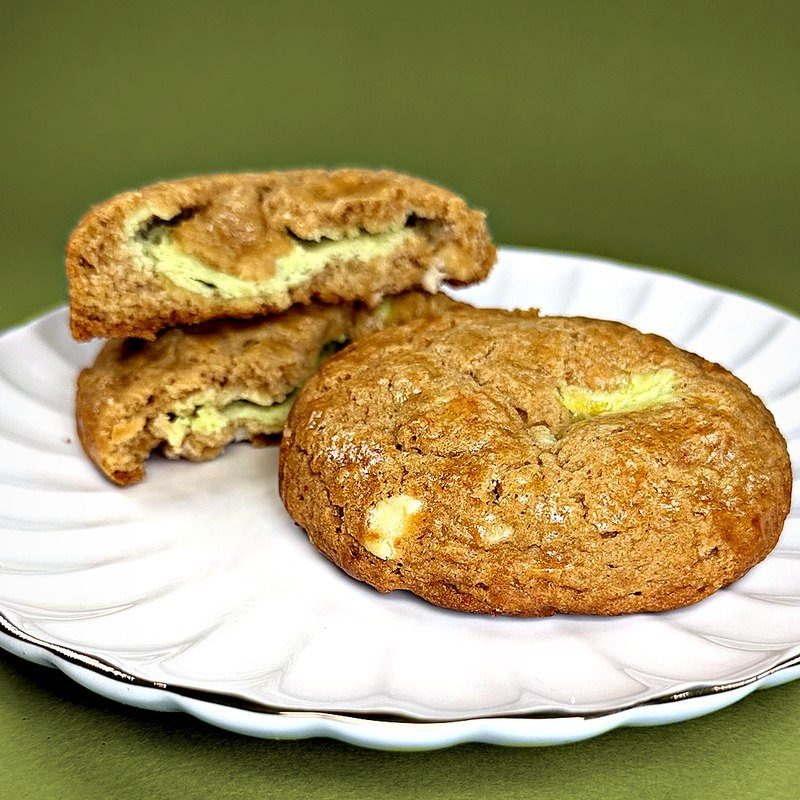
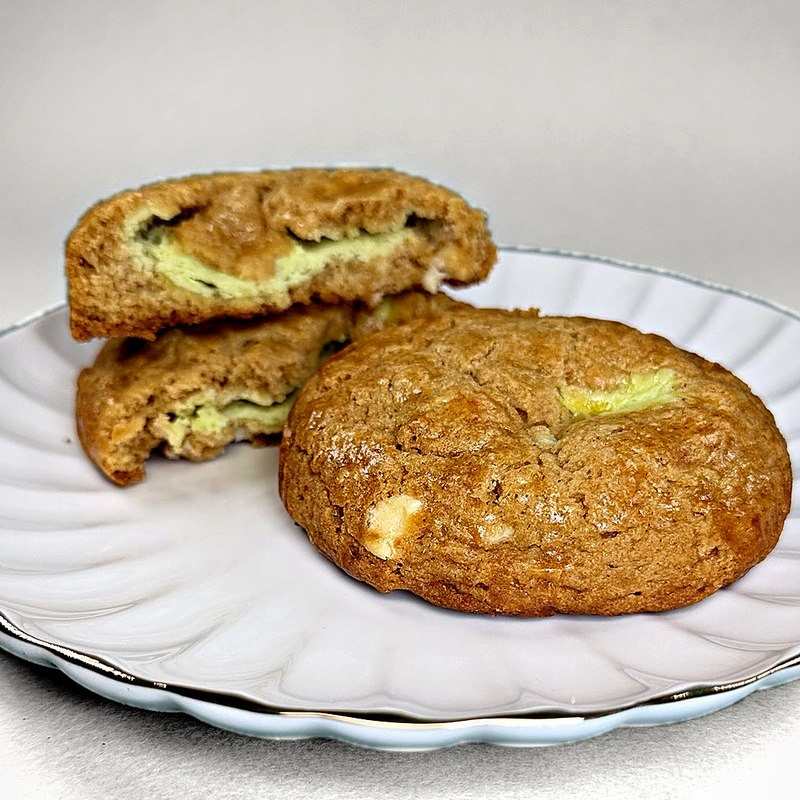
Mary Cookies: blanco y negro completo; fotos reales con fondo gris claro, sin verde olivo
Claude-Session: https://claude.ai/code/session_015dL2sNW5R9ZGNvpo3DgFWQ

diff --git a/marycookies/bn/index.html b/marycookies/bn/index.html
@@ -372,24 +372,37 @@ body:not(.holiday) .season-only{display:none!important}
 }
 </style>
 <style>
-/* B&N + color accents: neutral black/white layout; photos, buttons and tags keep their color */
-:root{--cream:#FFFFFF;--paper:#F7F7F6;--mist:#F0F0EE;--choco:#111111;--soft:#5C5C5C;--line:#E4E4E2;--olive-ink:#111111}
+/* Black & white: neutral layout, color only in the cookies */
+:root{--cream:#FFFFFF;--paper:#F7F7F6;--mist:#F0F0EE;--choco:#111111;--soft:#5C5C5C;--line:#E4E4E2;--olive:#111111;--olive-deep:#111111;--olive-ink:#111111;--caramel:#111111;--caramel-deep:#000;--holly:#111111}
 header.nav{background:rgba(255,255,255,.94)}
 .hero{background:linear-gradient(180deg,#fff 55%,#F0F0EE)}
-.announce{background:#111}.announce a{color:#C9D27A}
-.marquee{background:#111}.marquee-track span::after{background:var(--olive)}
-.dark{background:#111}.dark .eyebrow{color:#C9D27A}
-footer{background:#111}.foot h4{color:#C9D27A}
-.eyebrow{color:var(--olive)}
+.announce,.marquee,.dark,footer,.boxcard,.chat-top,.chat-fab,.story .logo-c{background:#111}
+.slots{background:#000}.slot.pie{box-shadow:inset 0 0 0 2px rgba(255,255,255,.55)}
+.announce a,.dark .eyebrow,.foot h4,.surprise{color:#fff}
+.marquee-track span::after{background:#fff}
+.eyebrow{color:#111}
+.hero h1 em{color:#555}
 .hero-photo .frame,.gift-photo{border-color:#111}
 .brand{color:#111}.foot .brand{color:#fff}
-.chip[aria-pressed="true"]{background:var(--olive-deep)}
-.boxcard{background:#111}.slots{background:#000}
+.btn-primary{background:#111;color:#fff}.btn-primary:hover{background:#333}
 .btn-ghost{color:#111;box-shadow:inset 0 0 0 2px #111}.btn-ghost:hover{background:#111;color:#fff}
 .boxcard .btn-ghost{color:#fff;box-shadow:inset 0 0 0 2px rgba(255,255,255,.5)}
+.btn-cream{background:#fff;color:#111}.btn-gold{background:#111;color:#fff}
+.box-pill .count{background:#fff;color:#111}
+.progress i{background:#fff}
+.chip[aria-pressed="true"]{background:#111}
+.tag,.tag.cold,.tag.new{background:rgba(17,17,17,.88)}
+.tagline{background:#111}
+.chat-fab .ping{background:#fff;box-shadow:0 0 0 3px #111}
+.chat-fab .face,.chat-top .face{border-color:#fff}
+.msg.me{background:#111}.msg .acts button{background:#111}
+.chat form button,.plus,.step .n{background:#111}.plus:hover{background:#333}
+.piec .plus{background:#fff;color:#111}
+.note-cold b{color:#111}
 .card,.step,.ws-card,.tile,.icon,.acc details{box-shadow:0 1px 0 #E4E4E2,0 14px 30px -24px rgba(0,0,0,.45)}
-.chat-top{background:#111}.chat-fab{background:#111}
-.story .logo-c{background:#111}
+.acc summary::after{color:#111}
+input[type=range]{accent-color:#111}
+.cold-note{background:rgba(255,255,255,.12)}
 </style>
 </head>
 <body>
@@ -471,7 +484,6 @@ footer{background:#111}.foot h4{color:#C9D27A}
         <div class="filters" id="filters" role="group" aria-label="Filter"></div>
         <div class="styles" role="group" aria-label="Look"><span data-i18n="mn.look">Look</span>
           <button class="sw real" type="button" data-style="real" aria-label="Kitchen" aria-pressed="true"></button>
-          <button class="sw olive" type="button" data-style="olive" aria-label="Olive" aria-pressed="false"></button>
           <button class="sw dark" type="button" data-style="dark" aria-label="Dark" aria-pressed="false"></button>
           <button class="sw marble" type="button" data-style="marble" aria-label="Marble" aria-pressed="false"></button>
           <button class="sw rustic" type="button" data-style="rustic" aria-label="Rustic" aria-pressed="false"></button>
@@ -508,7 +520,7 @@ footer{background:#111}.foot h4{color:#C9D27A}
     <div class="wrap">
       <div class="head reveal"><div><p class="eyebrow" data-i18n="ws.eyebrow">Wholesale &amp; events</p><h2 data-i18n="ws.title">For your store, office or party</h2></div></div>
       <div class="ws">
-        <div class="ws-photo reveal"><img src="../img/real-assort.jpg" alt="Assorted stuffed cookies and cookie pies" data-lb width="600" height="600" loading="lazy"></div>
+        <div class="ws-photo reveal"><img src="../img/real-tower-2.jpg" alt="Four stuffed cookies stacked on a plate" data-lb width="600" height="600" loading="lazy"></div>
         <div class="ws-card">
           <div class="field"><span class="lbl-t" data-i18n="ws.who">I'm ordering for</span><div class="row" id="wsType"></div></div>
           <div class="field"><label for="dozens"><span data-i18n="ws.qty">Dozens</span>: <span id="dzOut">5</span></label><input type="range" id="dozens" min="1" max="30" value="5"></div>
@@ -648,7 +660,7 @@ const CONFIG = {
   prices: { gift: null, box6: null, box12: null }   // e.g. 28 → $28. null → "Price coming soon"
 };
 const AVAIL = new Set(["box-real", "dark-arequipe", "dark-brownie", "dark-coconut", "dark-hazelnut", "dark-lemon", "dark-pie-arequipe", "dark-pie-coconut", "dark-pie-hazelnut", "dark-pie-lemon", "dark-redvelvet", "giftbox", "gpt-01", "gpt-02", "gpt-04", "gpt-05", "gpt-07", "gpt-08", "hero", "lk-01", "lk-02", "lk-03", "lk-04", "lk-05", "lk-06", "lk-07", "lk-08", "lk-09", "lk-10", "marble-arequipe", "marble-brownie", "marble-coconut", "marble-guava", "marble-hazelnut", "marble-hazelnut-whole", "marble-lemon", "marble-pie-coconut", "marble-redvelvet", "olive-arequipe", "olive-brownie", "olive-coconut", "olive-guava", "olive-guava-whole", "olive-hazelnut", "olive-lemon", "olive-pie-arequipe", "olive-pie-coconut", "olive-pie-hazelnut", "olive-pie-lemon", "olive-redvelvet", "real-assort", "real-box-branches", "real-box-closed", "real-box-open", "real-brownie", "real-brownie-2", "real-coconut", "real-gold", "real-lemon", "real-lemon-2", "real-pie-coconut", "real-pie-coconut-2", "real-plate", "real-redvelvet", "real-redvelvet-2", "real-redvelvet-3", "real-rv-tower", "real-sleeves", "real-tower", "real-tower-2", "real-white-box", "rustic-arequipe", "rustic-brownie", "rustic-coconut", "rustic-guava", "rustic-hazelnut", "rustic-lemon", "rustic-mix", "rustic-pie-arequipe", "rustic-pie-coconut", "rustic-pie-hazelnut", "rustic-pie-lemon", "rustic-redvelvet", "splash", "torre-lazo"]);
-const STYLES = ['real','olive','dark','marble','rustic'];
+const STYLES = ['real','dark','marble','rustic'];
 const imgFor = (key, style) => { const order = [style, ...STYLES.filter(s => s !== style)]; for(const s of order){ if(AVAIL.has(`${s}-${key}`)) return `../img/${s}-${key}.jpg`; } return '../img/hero.jpg'; };
 const imgsOf = key => [2,3].filter(n => AVAIL.has(`real-${key}-${n}`)).map(n => `../img/real-${key}-${n}.jpg`).reduce((a,x)=>{a.splice(1,0,x);return a;}, STYLES.filter(s => AVAIL.has(`${s}-${key}`)).map(s => `../img/${s}-${key}.jpg`).concat(AVAIL.has(`olive-${key}-whole`)?[`../img/olive-${key}-whole.jpg`]:[]).concat(AVAIL.has(`marble-${key}-whole`)?[`../img/marble-${key}-whole.jpg`]:[]));
 

diff --git a/marycookies/index.html b/marycookies/index.html
@@ -372,24 +372,37 @@ body:not(.holiday) .season-only{display:none!important}
 }
 </style>
 <style>
-/* B&N + color accents: neutral black/white layout; photos, buttons and tags keep their color */
-:root{--cream:#FFFFFF;--paper:#F7F7F6;--mist:#F0F0EE;--choco:#111111;--soft:#5C5C5C;--line:#E4E4E2;--olive-ink:#111111}
+/* Black & white: neutral layout, color only in the cookies */
+:root{--cream:#FFFFFF;--paper:#F7F7F6;--mist:#F0F0EE;--choco:#111111;--soft:#5C5C5C;--line:#E4E4E2;--olive:#111111;--olive-deep:#111111;--olive-ink:#111111;--caramel:#111111;--caramel-deep:#000;--holly:#111111}
 header.nav{background:rgba(255,255,255,.94)}
 .hero{background:linear-gradient(180deg,#fff 55%,#F0F0EE)}
-.announce{background:#111}.announce a{color:#C9D27A}
-.marquee{background:#111}.marquee-track span::after{background:var(--olive)}
-.dark{background:#111}.dark .eyebrow{color:#C9D27A}
-footer{background:#111}.foot h4{color:#C9D27A}
-.eyebrow{color:var(--olive)}
+.announce,.marquee,.dark,footer,.boxcard,.chat-top,.chat-fab,.story .logo-c{background:#111}
+.slots{background:#000}.slot.pie{box-shadow:inset 0 0 0 2px rgba(255,255,255,.55)}
+.announce a,.dark .eyebrow,.foot h4,.surprise{color:#fff}
+.marquee-track span::after{background:#fff}
+.eyebrow{color:#111}
+.hero h1 em{color:#555}
 .hero-photo .frame,.gift-photo{border-color:#111}
 .brand{color:#111}.foot .brand{color:#fff}
-.chip[aria-pressed="true"]{background:var(--olive-deep)}
-.boxcard{background:#111}.slots{background:#000}
+.btn-primary{background:#111;color:#fff}.btn-primary:hover{background:#333}
 .btn-ghost{color:#111;box-shadow:inset 0 0 0 2px #111}.btn-ghost:hover{background:#111;color:#fff}
 .boxcard .btn-ghost{color:#fff;box-shadow:inset 0 0 0 2px rgba(255,255,255,.5)}
+.btn-cream{background:#fff;color:#111}.btn-gold{background:#111;color:#fff}
+.box-pill .count{background:#fff;color:#111}
+.progress i{background:#fff}
+.chip[aria-pressed="true"]{background:#111}
+.tag,.tag.cold,.tag.new{background:rgba(17,17,17,.88)}
+.tagline{background:#111}
+.chat-fab .ping{background:#fff;box-shadow:0 0 0 3px #111}
+.chat-fab .face,.chat-top .face{border-color:#fff}
+.msg.me{background:#111}.msg .acts button{background:#111}
+.chat form button,.plus,.step .n{background:#111}.plus:hover{background:#333}
+.piec .plus{background:#fff;color:#111}
+.note-cold b{color:#111}
 .card,.step,.ws-card,.tile,.icon,.acc details{box-shadow:0 1px 0 #E4E4E2,0 14px 30px -24px rgba(0,0,0,.45)}
-.chat-top{background:#111}.chat-fab{background:#111}
-.story .logo-c{background:#111}
+.acc summary::after{color:#111}
+input[type=range]{accent-color:#111}
+.cold-note{background:rgba(255,255,255,.12)}
 </style>
 </head>
 <body>
@@ -471,7 +484,6 @@ footer{background:#111}.foot h4{color:#C9D27A}
         <div class="filters" id="filters" role="group" aria-label="Filter"></div>
         <div class="styles" role="group" aria-label="Look"><span data-i18n="mn.look">Look</span>
           <button class="sw real" type="button" data-style="real" aria-label="Kitchen" aria-pressed="true"></button>
-          <button class="sw olive" type="button" data-style="olive" aria-label="Olive" aria-pressed="false"></button>
           <button class="sw dark" type="button" data-style="dark" aria-label="Dark" aria-pressed="false"></button>
           <button class="sw marble" type="button" data-style="marble" aria-label="Marble" aria-pressed="false"></button>
           <button class="sw rustic" type="button" data-style="rustic" aria-label="Rustic" aria-pressed="false"></button>
@@ -508,7 +520,7 @@ footer{background:#111}.foot h4{color:#C9D27A}
     <div class="wrap">
       <div class="head reveal"><div><p class="eyebrow" data-i18n="ws.eyebrow">Wholesale &amp; events</p><h2 data-i18n="ws.title">For your store, office or party</h2></div></div>
       <div class="ws">
-        <div class="ws-photo reveal"><img src="img/real-assort.jpg" alt="Assorted stuffed cookies and cookie pies" data-lb width="600" height="600" loading="lazy"></div>
+        <div class="ws-photo reveal"><img src="img/real-tower-2.jpg" alt="Four stuffed cookies stacked on a plate" data-lb width="600" height="600" loading="lazy"></div>
         <div class="ws-card">
           <div class="field"><span class="lbl-t" data-i18n="ws.who">I'm ordering for</span><div class="row" id="wsType"></div></div>
           <div class="field"><label for="dozens"><span data-i18n="ws.qty">Dozens</span>: <span id="dzOut">5</span></label><input type="range" id="dozens" min="1" max="30" value="5"></div>
@@ -648,7 +660,7 @@ const CONFIG = {
   prices: { gift: null, box6: null, box12: null }   // e.g. 28 → $28. null → "Price coming soon"
 };
 const AVAIL = new Set(["box-real", "dark-arequipe", "dark-brownie", "dark-coconut", "dark-hazelnut", "dark-lemon", "dark-pie-arequipe", "dark-pie-coconut", "dark-pie-hazelnut", "dark-pie-lemon", "dark-redvelvet", "giftbox", "gpt-01", "gpt-02", "gpt-04", "gpt-05", "gpt-07", "gpt-08", "hero", "lk-01", "lk-02", "lk-03", "lk-04", "lk-05", "lk-06", "lk-07", "lk-08", "lk-09", "lk-10", "marble-arequipe", "marble-brownie", "marble-coconut", "marble-guava", "marble-hazelnut", "marble-hazelnut-whole", "marble-lemon", "marble-pie-coconut", "marble-redvelvet", "olive-arequipe", "olive-brownie", "olive-coconut", "olive-guava", "olive-guava-whole", "olive-hazelnut", "olive-lemon", "olive-pie-arequipe", "olive-pie-coconut", "olive-pie-hazelnut", "olive-pie-lemon", "olive-redvelvet", "real-assort", "real-box-branches", "real-box-closed", "real-box-open", "real-brownie", "real-brownie-2", "real-coconut", "real-gold", "real-lemon", "real-lemon-2", "real-pie-coconut", "real-pie-coconut-2", "real-plate", "real-redvelvet", "real-redvelvet-2", "real-redvelvet-3", "real-rv-tower", "real-sleeves", "real-tower", "real-tower-2", "real-white-box", "rustic-arequipe", "rustic-brownie", "rustic-coconut", "rustic-guava", "rustic-hazelnut", "rustic-lemon", "rustic-mix", "rustic-pie-arequipe", "rustic-pie-coconut", "rustic-pie-hazelnut", "rustic-pie-lemon", "rustic-redvelvet", "splash", "torre-lazo"]);
-const STYLES = ['real','olive','dark','marble','rustic'];
+const STYLES = ['real','dark','marble','rustic'];
 const imgFor = (key, style) => { const order = [style, ...STYLES.filter(s => s !== style)]; for(const s of order){ if(AVAIL.has(`${s}-${key}`)) return `img/${s}-${key}.jpg`; } return 'img/hero.jpg'; };
 const imgsOf = key => [2,3].filter(n => AVAIL.has(`real-${key}-${n}`)).map(n => `img/real-${key}-${n}.jpg`).reduce((a,x)=>{a.splice(1,0,x);return a;}, STYLES.filter(s => AVAIL.has(`${s}-${key}`)).map(s => `img/${s}-${key}.jpg`).concat(AVAIL.has(`olive-${key}-whole`)?[`img/olive-${key}-whole.jpg`]:[]).concat(AVAIL.has(`marble-${key}-whole`)?[`img/marble-${key}-whole.jpg`]:[]));
 
